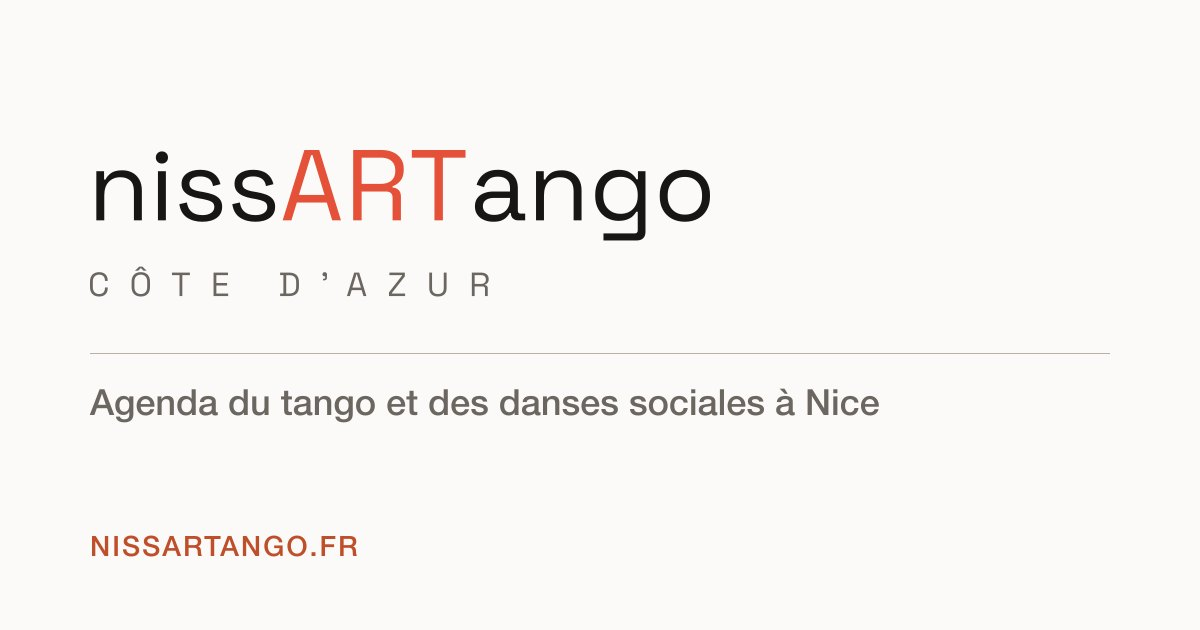
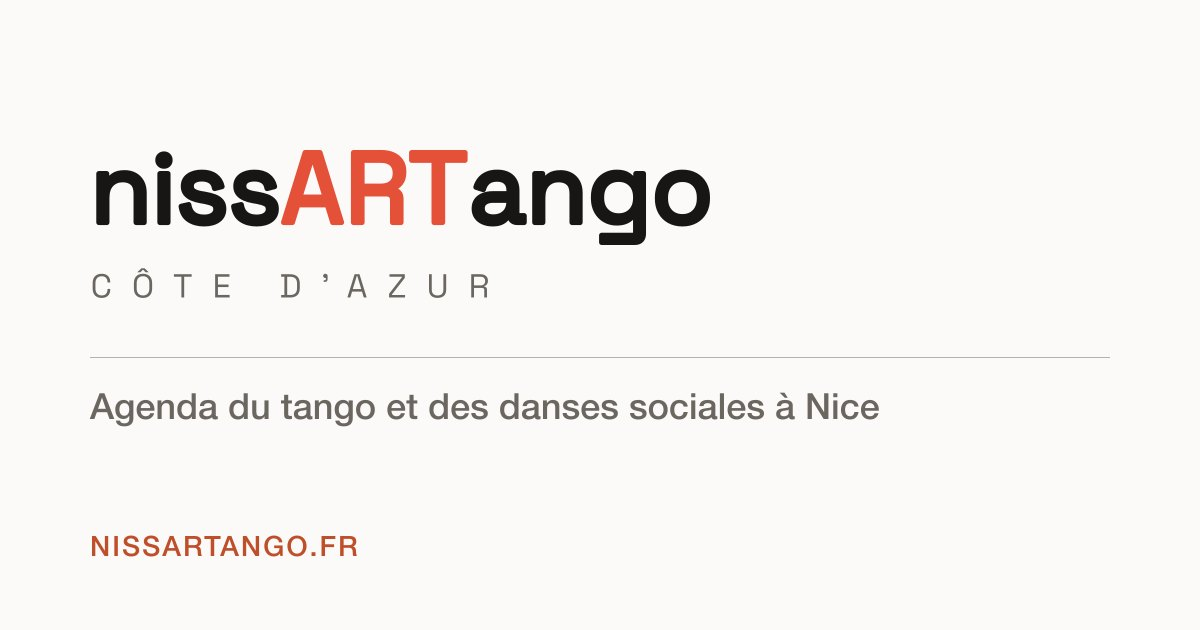
The wordmark is 32px and bold, and the bold is a stroke because it has to be
Asked for: plus grand et plus gras. The first is a number. The second cannot be
done the way it sounds, and the file says why -- docs/DESIGN.md §9 records that
the wordmark's typeface was never identified, and that an attempt to identify it
locally was ABANDONED rather than guessed, because the renderer here does not
resolve font families. The lettering is three <path> elements with no <text> and
no font-family. There is no weight to raise.

So it is thickened with a stroke, each path stroked in the SAME colour it
already fills with, which is what keeps the ART orange while the ink follows the
theme. paint-order:stroke puts the outline behind the fill so the counters stay
open -- checked by rendering 0.3/0.6/1.0/1.6 side by side and looking, not by
reasoning about it. At 1.6 the a, o and g still read.

BAKED INTO design/brand/, NOT SET IN CSS, so the social card is bold too: it
reads those files directly and would otherwise have kept the thin mark. Both
files were done, at their own scales -- the OG lockup is a uniform 3x, proven
twice over, since the wordmark's viewBox is exactly its glyph bbox with a cap
height of 21 and the OG's viewBox starts at -63. So 1.6 and 4.8.

The OG's fourth path is left thin on purpose. It turned out to be "CÔTE
D'AZUR", a tracked caption; bolding letterspaced small caps would be wrong.

Each viewBox grew by half the stroke on every side, or the new outline clips.

THEN THE PHONE HEADER BROKE, and the arithmetic is the interesting part.
[…]

diff --git a/src/styles/base.css b/src/styles/base.css
@@ -70,12 +70,38 @@ header {
   justify-content: space-between;
   align-items: center;
 }
+/* THE HEADER STACKS ON A PHONE, and it is arithmetic rather than taste.
+ * Measured at 375px: the shell is 343px inside the gutters and the nav needs
+ * 213px on one line -- it grew with the type and again with the 44px tap
+ * targets. That leaves 106px for the wordmark, which at its 6.46:1 aspect is
+ * SIXTEEN PIXELS tall: smaller than the 20px it was before anyone asked for a
+ * bigger logo. The two cannot share a line at any size worth having.
+ *
+ * So the header is two lines either way. Left alone it chose the bad two: the
+ * nav wrapped INSIDE its own box and "Agenda" came to rest on the wordmark's
+ * line, overlapping it. Stacking puts the mark on one line and both links,
+ * unwrapped, on the next. */
+@media (max-width: 40rem) {
+  header {
+    flex-direction: column;
+    align-items: flex-start;
+    gap: var(--space-12);
+  }
+}
 
 /* The wordmark is inlined SVG whose ink paths are currentColor, so it takes
- * its colour from here and follows the theme. 20px tall is the size it was
- * checked at; below that the ART stops reading. */
+ * its colour from here and follows the theme.
+ *
+ * 32px since 2026-10-15, up from 20. The BOLDNESS is not here and could not
+ * be: the lettering is outlined, with no <text> and no font-family, so there
+ * is no weight to raise -- docs/DESIGN.md §9 records that the typeface was
+ * never identified and that an attempt to identify it locally was abandoned
+ * rather than guessed. The mark is thickened by a stroke baked into
+ * design/brand/, in the SAME colour each path already fills with, so the ART
+ * stays orange. Baked there rather than set here so the social card, which
+ * reads those files directly, is bold too. */
 .logo { display: block; color: var(--ink); }
-.logo svg { display: block; height: 1.25rem; width: auto; }
+.logo svg { display: block; height: 2rem; width: auto; }
 
 /* ---- Touch targets, phones only -------------------------------------------
  * Measured at 375px with the 17-event fixture: the wordmark was 20px tall, nav
